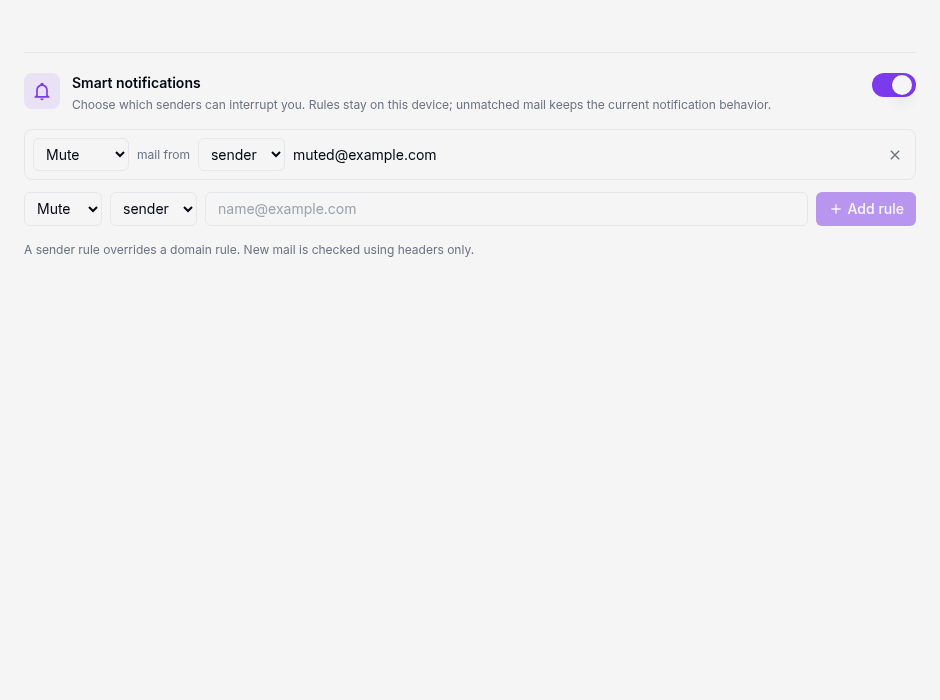
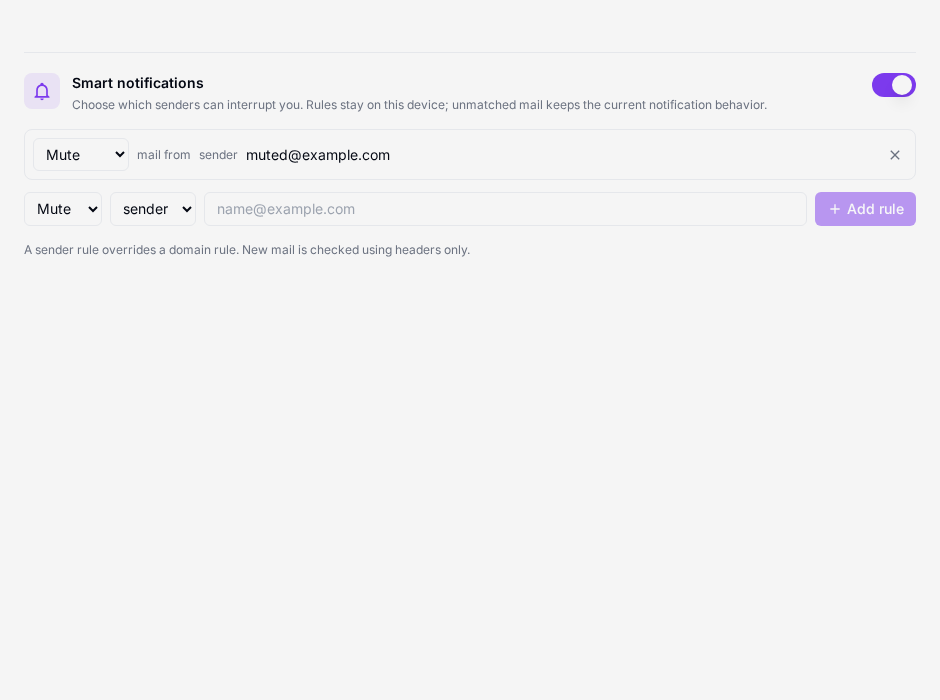
fix: address notification review feedback

diff --git a/frontend/src/lib/components/settings/SmartNotifications.svelte b/frontend/src/lib/components/settings/SmartNotifications.svelte
@@ -89,10 +89,7 @@
             <option value="notify">{$_('settingsGeneral.notificationAllow')}</option>
           </select>
           <span class="text-xs text-muted-foreground">{$_('settingsGeneral.notificationFrom')}</span>
-          <select class="rounded-md border border-input bg-background px-2 py-1.5 text-sm" value={rule.scope} onchange={(event) => updateRule(rule.id, { scope: (event.currentTarget as HTMLSelectElement).value as Rule['scope'] })} disabled={saving} aria-label={$_('settingsGeneral.notificationMatchType')}>
-            <option value="sender">{$_('settingsGeneral.notificationSender')}</option>
-            <option value="domain">{$_('settingsGeneral.notificationDomain')}</option>
-          </select>
+          <span class="text-xs text-muted-foreground">{rule.scope === 'sender' ? $_('settingsGeneral.notificationSender') : $_('settingsGeneral.notificationDomain')}</span>
           <span class="min-w-0 flex-1 truncate text-sm" title={rule.match}>{rule.match}</span>
           <button type="button" class="rounded-md p-1 text-muted-foreground hover:bg-muted hover:text-foreground" onclick={() => removeRule(rule.id)} disabled={saving} aria-label={$_('settingsGeneral.notificationRemoveRule')}>
             <Icon icon="mdi:close" class="h-4 w-4" />

diff --git a/internal/message/notification_headers_test.go b/internal/message/notification_headers_test.go
@@ -1,6 +1,7 @@
 package message
 
 import (
+	"fmt"
 	"path/filepath"
 	"testing"
 	"time"
@@ -29,7 +30,7 @@ func TestNotificationHeadersUseLocalReceiveTimeNotSenderDate(t *testing.T) {
 	start := time.Now().UTC()
 	rows := []*Message{
 		{ID: "old-muted", AccountID: "a", FolderID: "inbox", UID: 1, FromEmail: "muted@example.com", Date: start.Add(time.Hour), ReceivedAt: start.Add(-time.Hour)},
-		{ID: "new-important", AccountID: "a", FolderID: "inbox", UID: 2, FromEmail: "important@example.com", Date: start.Add(-24 * time.Hour), ReceivedAt: start.Add(time.Millisecond)},
+		{ID: "new-important", ThreadID: "important-thread", Subject: "Important backdated arrival", AccountID: "a", FolderID: "inbox", UID: 2, FromEmail: "important@example.com", Date: start.Add(-24 * time.Hour), ReceivedAt: start.Add(time.Millisecond)},
 		{ID: "elsewhere", AccountID: "a", FolderID: "other", UID: 1, FromEmail: "other@example.com", Date: start, ReceivedAt: start.Add(time.Millisecond)},
 	}
 	for _, m := range rows {
@@ -48,5 +49,46 @@ func TestNotificationHeadersUseLocalReceiveTimeNotSenderDate(t *testing.T) {
 	limited, err := s.ListByFolderReceivedSince("inbox", start.Add(-2*time.Hour), 1)
 	if err != nil || len(limited) != 1 {
 		t.Fatalf("limit ignored: %#v %v", limited, err)
+	}
+}
+
+func TestNotificationTargetAlignsHeadersAndClickConversation(t *testing.T) {
+	db, err := database.Open(filepath.Join(t.TempDir(), "notification-target.db"))
+	if err != nil {
+		t.Fatal(err)
+	}
+	t.Cleanup(func() { _ = db.Close() })
+	if err := db.Migrate(); err != nil {
+		t.Fatal(err)
+	}
+	if _, err := db.Exec(`INSERT INTO accounts (id,name,email,imap_host,smtp_host,username) VALUES ('a','A','me@example.com','imap.example.com','smtp.example.com','me')`); err != nil {
+		t.Fatal(err)
+	}
+	if _, err := db.Exec(`INSERT INTO folders (id,account_id,name,path,folder_type) VALUES ('inbox','a','Inbox','Inbox','inbox')`); err != nil {
+		t.Fatal(err)
+	}
+	s := NewStore(db)
+	for i, thread := range []string{"important-thread", ""} {
+		id := fmt.Sprintf("message-%d", i)
+		if err := s.Create(&Message{ID: id, AccountID: "a", FolderID: "inbox", UID: uint32(i + 1), ThreadID: thread, Subject: "Backdated important mail", FromName: "Important", FromEmail: "important@example.com", Date: time.Now().Add(-24 * time.Hour)}); err != nil {
+			t.Fatal(err)
+		}
+		target, err := s.NotificationTarget(id, "a", "inbox")
+		if err != nil {
+			t.Fatal(err)
+		}
+		want := thread
+		if want == "" {
+			want = id
+		}
+		if target.ThreadID != want || target.Subject != "Backdated important mail" || target.FromEmail != "important@example.com" {
+			t.Fatalf("mismatched display/click target: %#v", target)
+		}
+		if _, err := s.NotificationTarget(id, "wrong-account", "inbox"); err == nil {
+			t.Fatal("cross-account notification target accepted")
+		}
+		if _, err := s.NotificationTarget(id, "a", "wrong-folder"); err == nil {
+			t.Fatal("wrong-folder notification target accepted")
+		}
 	}
 }

diff --git a/internal/message/store.go b/internal/message/store.go
@@ -125,6 +125,25 @@ func snoozedViewHavingClause(filter string) string {
 	}
 }
 
+// NotificationTarget keeps a notification's displayed headers and click target
+// on the same stored message without reading its body.
+type NotificationTarget struct {
+	Subject   string
+	FromName  string
+	FromEmail string
+	ThreadID  string
+}
+
+func (s *Store) NotificationTarget(messageID, accountID, folderID string) (*NotificationTarget, error) {
+	target := &NotificationTarget{}
+	err := s.db.QueryRow(`SELECT subject, from_name, from_email, COALESCE(NULLIF(thread_id, ''), id)
+ FROM messages WHERE id = ? AND account_id = ? AND folder_id = ?`, messageID, accountID, folderID).Scan(&target.Subject, &target.FromName, &target.FromEmail, &target.ThreadID)
+	if err != nil {
+		return nil, fmt.Errorf("resolve notification target: %w", err)
+	}
+	return target, nil
+}
+
 // ListByFolder returns message headers for a folder with pagination
 func (s *Store) ListByFolder(folderID string, offset, limit int) ([]*MessageHeader, error) {
 	return s.listByFolderSince(folderID, offset, limit, time.Time{})

diff --git a/app/background.go b/app/background.go
@@ -610,9 +610,13 @@ func (a *App) handleNewMailNotification(info sync.NewMailInfo) {
 				for _, header := range headers {
 					if prefs.ShouldNotify(header.FromEmail) {
 						if subject == "" || info.Count == 1 {
-							subject = header.Subject
-							fromName = header.FromName
-							fromEmail = header.FromEmail
+							target, targetErr := a.messageStore.NotificationTarget(header.ID, info.AccountID, info.FolderID)
+							if targetErr == nil {
+								subject = target.Subject
+								fromName = target.FromName
+								fromEmail = target.FromEmail
+								threadID = target.ThreadID
+							}
 						}
 						break
 					}

diff --git a/TASKS.md b/TASKS.md
@@ -409,7 +409,7 @@ Suggested model/effort is a dispatch recommendation, not an existing claim or mo
 | P-061 | Small | Show message and unread counts beside sidebar destinations. | Codex / `agent/P-061-sidebar-counts-integration` / `/private/tmp/postilaatikko-p061-integration` | Done in main integration `ef947d9`; implementation `96d0495` cherry-picked and invalid Svelte `{@const}` placement corrected. Targeted ESLint and production build pass. Full Svelte check reports three existing errors in composer attachment models/signature rules. |
 | P-009 | Medium | Integrate macOS Contacts as a read-only source for browsing and recipient lookup/autocomplete. | Codex / `codex/P-009-macos-contacts` / `/private/tmp/postilaatikko-p009` | Done; PR #60 (`7e96afd`) merged the read-only Contacts integration. Native permission/record handoff and installed-app keyboard checks remain verification follow-ups; see `docs/MACOS_CONTACTS.md`. |
 | P-015 | Medium | Select signatures using sender, recipient, and message type. | Integrated through PR #72: ordered configurable rules, sender/recipient/message-type matching, placement and text-format support, plus manual-edit preservation. Migration reconciled as 63 after migrations 61–62. |
-| P-016 | Medium | Add optional per-sender and rule-based notification controls. | Recovered for review on `instinct/rescue-p-016-smart-notifications`; local receive-window safety and regression coverage added. UI design approval and native notification verification remain held. |
+| P-016 | Medium | Add optional per-sender and rule-based notification controls. | Instinct / `instinct/rescue-p-016-smart-notifications` / `/downloads/branch-rescue/postilaatikko-work-0` | Review; PR #273. Implementation `ce49108`, bounded lookup `492aa49`; notification display/click alignment and fixed rule scope follow up on this branch. UI design approval and native notification verification remain held. |
 | P-020 | Medium | Add full email templates to the composer. | Save and insert reusable subject/body templates; preserve recipient, sender identity, and unsaved draft fields when inserting. Keep separate from short quick replies in P-018. |
 | P-021 | Medium | Add Gmail-style keyboard actions for message lists and reading. | Done; PR #86 (`5431ac1`) merged. Live macOS/WKWebView verification of the reader move dialog remains a follow-up. |
 | KBD-001 | Easy | Restore standard Cmd/Ctrl+C text copy from selected email-body text in the sandboxed reader iframe; keep native copy/paste/cut/select-all behavior in editable fields. | Codex / `codex/KEYBOARD-COPY-001` / `/private/tmp/postilaatikko-keyboard-copy` — Review. Native Edit menu shortcuts now route copy/select-all into the focused reader iframe; copied selection reaches the system clipboard. Focused tests (2/2), ESLint, frontend production build, and Go package compile checks pass. Full app tests cannot bind localhost ports in this sandbox; live WKWebView verification remains for the user. |

diff --git a/CHANGELOG.md b/CHANGELOG.md
@@ -2,6 +2,8 @@
 
 ## [Unreleased]
 
+- Add local sender/domain notification controls. Unknown or incomplete arrival batches keep alerts; notification clicks follow the displayed message. Existing rule scope is fixed, so remove and re-add a rule to change sender/domain matching.
+
 - Keep message index order and inbox cards stable while reading. Pending arrivals/changes wait behind a re-sort pill; deliberate mail/context actions reconcile the list.
 
 - Combine Read later and Reply later into one Later pile, preserving existing marks and removing them only when explicitly requested.
